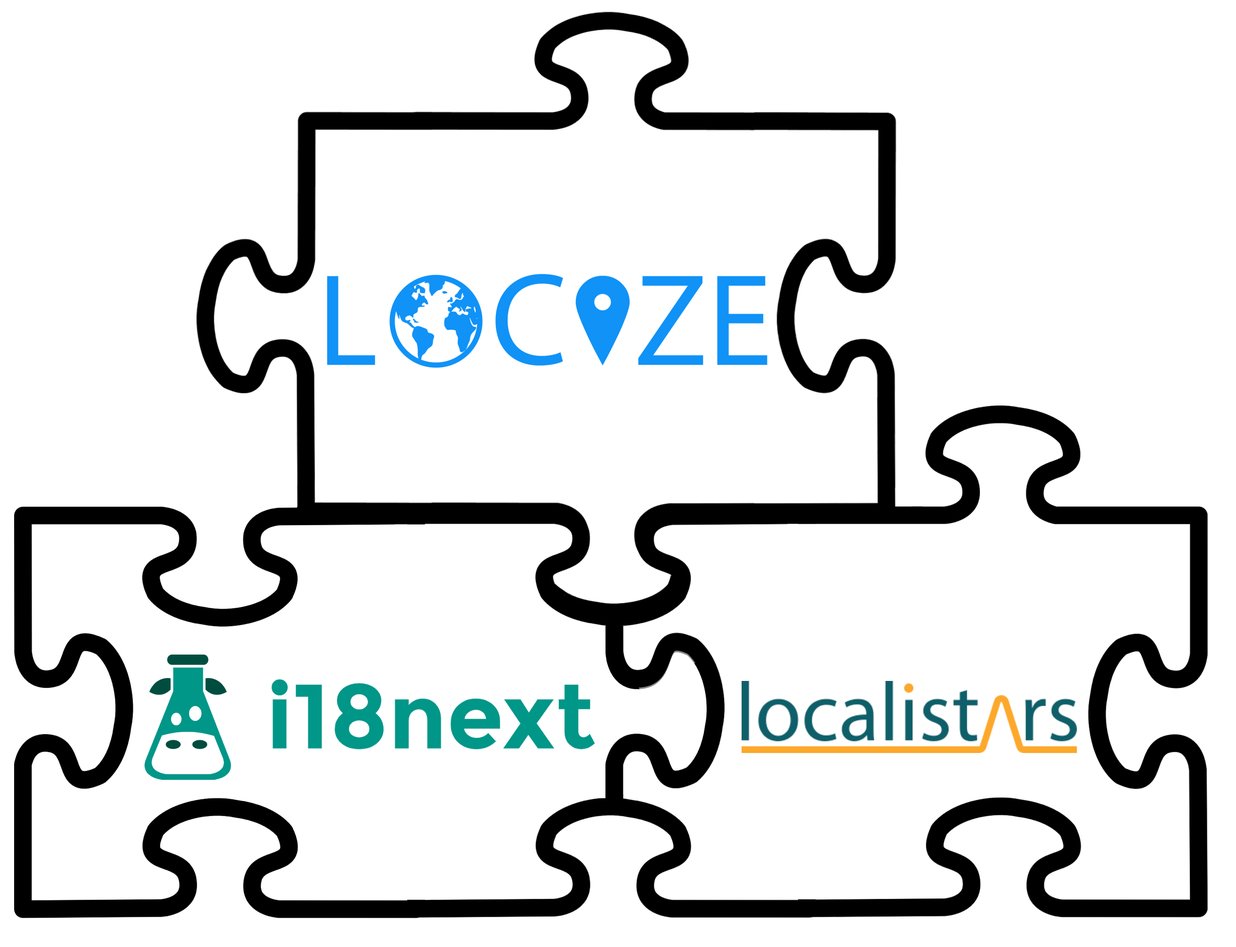
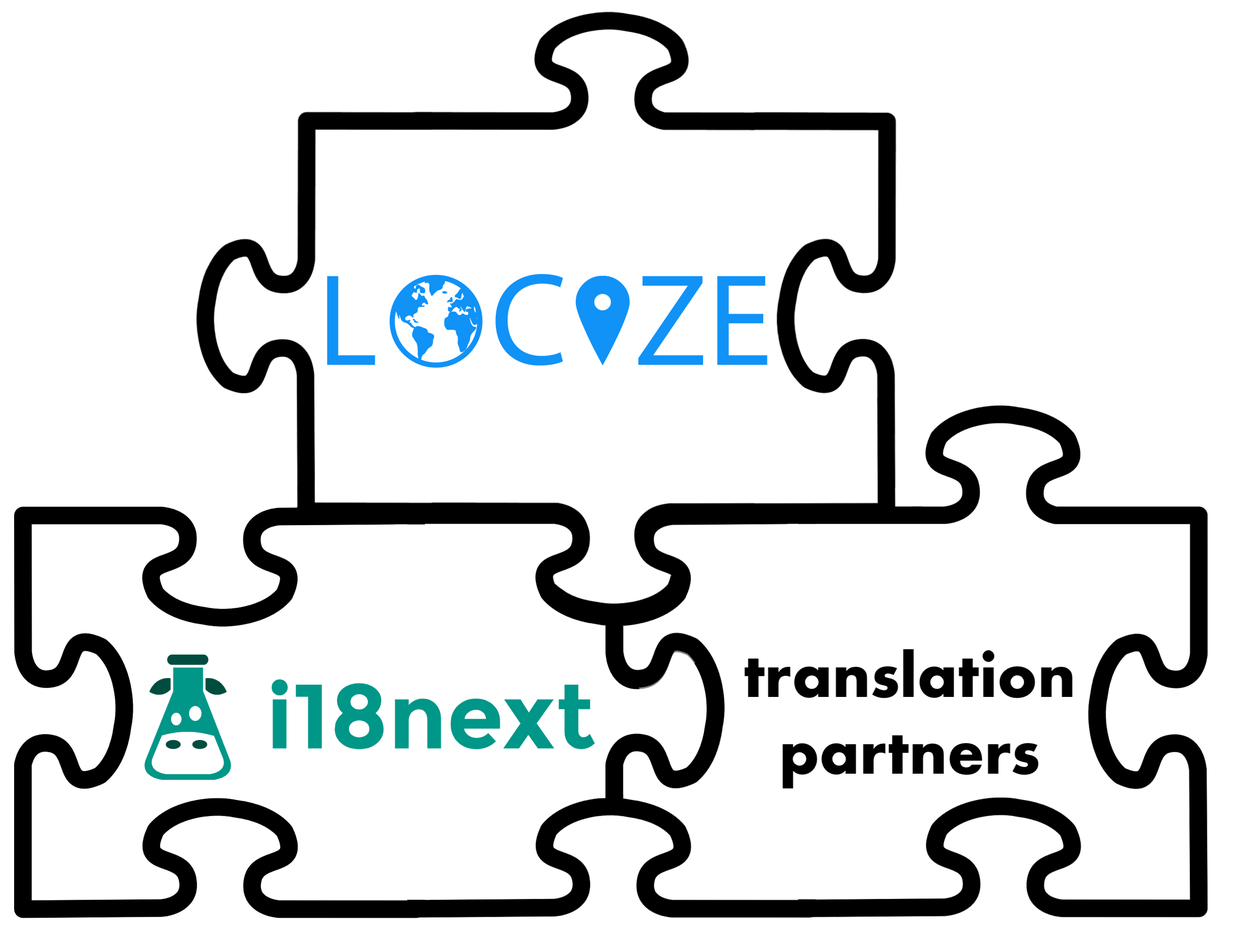
bye localistars

Changed region(s): [[0.5935, 0.6783, 0.8747, 0.8324]]

diff --git a/services.html b/services.html
@@ -11,7 +11,7 @@
     <meta name="twitter:description" content="Explore partners or extra services of locize. You may enhance your locize experience...">
     <meta name="author" content="inweso GmbH">
     <meta name="copyright" content="inweso GmbH">
-    <meta name="keywords" content="localization,internationalization,localize,translate,locize,l10n,i18n,javascript,nodejs,localization as a service,saas translation,saas localization,laas,continuous localization,DevOps,process,free,website localization,service,software,web app,web,mobile,desktop,game,translation management,online,automate,process of localization,localization process,translation service,localization service,translation software,landing page,javascript localize,localization tool,localizing a website,localization solution,cloud localization,cloud translation,serverless,cloud,cdn,react,react.js,reactjs,react-i18next,next,next.js,nextjs,next-i18next,svelte,svelte-i18n,svelte-i18next,angular,vue,vue-js,jquery,nodejs,i18next,json,api,react-native,localization api,translation api,localistars,app localization services,localization management platform,localization platform,professional translation and localization services,website translation management,app localization service,online translation management,i18next translation management,i18next translation,manage translations,manage translation files">
+    <meta name="keywords" content="localization,internationalization,localize,translate,locize,l10n,i18n,javascript,nodejs,localization as a service,saas translation,saas localization,laas,continuous localization,DevOps,process,free,website localization,service,software,web app,web,mobile,desktop,game,translation management,online,automate,process of localization,localization process,translation service,localization service,translation software,landing page,javascript localize,localization tool,localizing a website,localization solution,cloud localization,cloud translation,serverless,cloud,cdn,react,react.js,reactjs,react-i18next,next,next.js,nextjs,next-i18next,svelte,svelte-i18n,svelte-i18next,angular,vue,vue-js,jquery,nodejs,i18next,json,api,react-native,localization api,translation api,app localization services,localization management platform,localization platform,professional translation and localization services,website translation management,app localization service,online translation management,i18next translation management,i18next translation,manage translations,manage translation files">
     <meta property="og:type" content="website">
     <meta property="og:url" content="https://locize.com">
     <meta property="og:site_name" content="locize - continuous localization as a service">
@@ -191,19 +191,7 @@
       <section class="section-gray" style="padding: 0;">
         <div class="container">
           <div class="row">
-            <div class="col-md-4" style="position: relative;">
-              <div class="integration" style="height: 600px; background-color: #fff; border: solid 1px #ccc; position: relative; top: -100px; width: 100%; border-radius: 4px; box-shadow: 5px 10px 20px 5px #144199;">
-                <div class="integration-name text-center"><img src="/img/services/localistars.svg" style="height: 45px; margin: -5px 25px;" alt="localistars" loading="lazy"></div>
-                <div class="text-center text-muted">Direct contact, no middleman – just collaborating <a href="https://www.localistars.com" target="_blank">localistars</a>!</div>
-                <div class="text-center" style="font-size: 16px; font-weight: 600; margin-top: 30px;">Pricing on request</div>
-                <div class="integration-features">
-                  <p>localistars is the go-to marketplace for clients and translators to get translation jobs done.</p>
-                  <p>You're in <a href="https://youtu.be/T0giUsKS5KQ" target="_blank">direct contact</a> with the translator – it's your project, you hold the reins. In contrast to other services we don't set the price and forward the contract to the cheapest translator to maximize our own profit. You choose the translator for your projects yourself, it's your contractor.</p>
-                </div>
-                <div class="integration-start"><a class="btn btn-outline btn-xl" href="https://docs.locize.com/guides-tips-and-tricks/working-with-translators#localistars-service" target="_blank" style="background-color: #ccc">Learn more!</a></div>
-              </div>
-            </div>
-            <div class="col-md-4" style="position: relative;">
+            <div class="col-md-6" style="position: relative;">
               <div class="integration" style="height: 600px; background-color: #fff; border: solid 1px #ccc; position: relative; top: -100px; width: 100%; border-radius: 4px;">
                 <div class="integration-name text-center"><img src="/img/services/textmaster.png" alt="textmaster" loading="lazy"></div>
                 <div class="text-center text-muted">Your Professional SaaS Translation Service</div>
@@ -215,7 +203,7 @@
                 <div class="integration-start"><a class="btn btn-outline btn-xl" href="https://www.textmaster.com" target="_blank" style="background-color: #ccc">Learn more!</a></div>
               </div>
             </div>
-            <div class="col-md-4" style="position: relative;">
+            <div class="col-md-6" style="position: relative;">
               <div class="integration" style="height: 600px; background-color: #fff; border: solid 1px #ccc; position: relative; top: -100px; width: 100%; border-radius: 4px;">
                 <div class="integration-name text-center"><img src="/img/services/blend.png" style="height: 50px; margin-bottom: -17px;" alt="onehour translation" loading="lazy"></div>
                 <div class="text-center text-muted">End-to-end, multi-market localization solutions</div>

diff --git a/software-localization-service.html b/software-localization-service.html
@@ -11,7 +11,7 @@
     <meta name="twitter:description" content="Learn how the locize software-localization-service may assist you in professionally managing the translations of your software.">
     <meta name="author" content="inweso GmbH">
     <meta name="copyright" content="inweso GmbH">
-    <meta name="keywords" content="localization,internationalization,localize,translate,locize,l10n,i18n,javascript,nodejs,localization as a service,saas translation,saas localization,laas,continuous localization,DevOps,process,free,website localization,service,software,web app,web,mobile,desktop,game,translation management,online,automate,process of localization,localization process,translation service,localization service,translation software,landing page,javascript localize,localization tool,localizing a website,localization solution,cloud localization,cloud translation,serverless,cloud,cdn,react,react.js,reactjs,react-i18next,next,next.js,nextjs,next-i18next,svelte,svelte-i18n,svelte-i18next,angular,vue,vue-js,jquery,nodejs,i18next,json,api,react-native,localization api,translation api,localistars,app localization services,localization management platform,localization platform,professional translation and localization services,website translation management,app localization service,online translation management,i18next translation management,i18next translation,manage translations,manage translation files">
+    <meta name="keywords" content="localization,internationalization,localize,translate,locize,l10n,i18n,javascript,nodejs,localization as a service,saas translation,saas localization,laas,continuous localization,DevOps,process,free,website localization,service,software,web app,web,mobile,desktop,game,translation management,online,automate,process of localization,localization process,translation service,localization service,translation software,landing page,javascript localize,localization tool,localizing a website,localization solution,cloud localization,cloud translation,serverless,cloud,cdn,react,react.js,reactjs,react-i18next,next,next.js,nextjs,next-i18next,svelte,svelte-i18n,svelte-i18next,angular,vue,vue-js,jquery,nodejs,i18next,json,api,react-native,localization api,translation api,app localization services,localization management platform,localization platform,professional translation and localization services,website translation management,app localization service,online translation management,i18next translation management,i18next translation,manage translations,manage translation files">
     <meta property="og:type" content="website">
     <meta property="og:url" content="https://locize.com">
     <meta property="og:site_name" content="locize - continuous localization as a service">
@@ -275,11 +275,11 @@
               <div class="section-heading">
                 <h2>We provide the parts you need for your project</h2>
                 <p>To localize a software project, numerous procedures must be taken. First and foremost, you should select a framework for instrumentalizing your code. We propose to make use of a good i18n framework like <strong>i18next</strong>. If you've completed this stage, you should think about the translation process. </p>
-                <p>Who is responsible for translating the content? <strong>localistars</strong> can assist you in finding the best translator for your needs and allowing you to choose which one is suitable for your project on your own. Finally, you can effortlessly manage translations through our translation management user interface <strong>locize</strong>.</p>
+                <p>Who is responsible for translating the content? Our <strong>translation partners</strong> can help in outsourcing the translation work. Finally, you can effortlessly manage translations through our translation management user interface <strong>locize</strong>.</p>
                 <hr>
                 <div class="div" style="display:flex;flex-wrap:wrap;align-items: stretch;">
                   <div class="div" style="width:500px;margin: 2rem;"><img class="img-responsive" src="img/software-localization-service/ecosystem.png" alt="ecosystem" loading="lazy"></div>
-                  <div class="div" style="width:500px;padding: 3rem 0;"><a class="btn btn-primary btn-md" href="https://www.i18next.com" style="margin: 1rem 0;">Learn how to instrument the code</a><a class="btn btn-primary btn-md" href="https://www.localistars.com/" style="margin: 2rem 0;">Our online translation services</a><a class="btn btn-primary btn-md" href="/">Our translation management system</a></div>
+                  <div class="div" style="width:500px;padding: 3rem 0;"><a class="btn btn-primary btn-md" href="https://www.i18next.com" style="margin: 1rem 0;">Learn how to instrument the code</a><a class="btn btn-primary btn-md" href="/services.html#translationservices" style="margin: 2rem 0;">Our translation partners</a><a class="btn btn-primary btn-md" href="/">Our translation management system</a></div>
                 </div>
               </div>
             </div>

diff --git a/i18next.html b/i18next.html
@@ -11,7 +11,7 @@
     <meta name="twitter:description" content="locize - The Translation Management for i18next (and any other i18n setup) by the creators of i18next">
     <meta name="author" content="inweso GmbH">
     <meta name="copyright" content="inweso GmbH">
-    <meta name="keywords" content="localization,internationalization,localize,translate,locize,l10n,i18n,javascript,nodejs,localization as a service,saas translation,saas localization,laas,continuous localization,DevOps,process,free,website localization,service,software,web app,web,mobile,desktop,game,translation management,online,automate,process of localization,localization process,translation service,localization service,translation software,landing page,javascript localize,localization tool,localizing a website,localization solution,cloud localization,cloud translation,serverless,cloud,cdn,react,react.js,reactjs,react-i18next,next,next.js,nextjs,next-i18next,svelte,svelte-i18n,svelte-i18next,angular,vue,vue-js,jquery,nodejs,i18next,json,api,react-native,localization api,translation api,localistars,app localization services,localization management platform,localization platform,professional translation and localization services,website translation management,app localization service,online translation management,i18next translation management,i18next translation,manage translations,manage translation files">
+    <meta name="keywords" content="localization,internationalization,localize,translate,locize,l10n,i18n,javascript,nodejs,localization as a service,saas translation,saas localization,laas,continuous localization,DevOps,process,free,website localization,service,software,web app,web,mobile,desktop,game,translation management,online,automate,process of localization,localization process,translation service,localization service,translation software,landing page,javascript localize,localization tool,localizing a website,localization solution,cloud localization,cloud translation,serverless,cloud,cdn,react,react.js,reactjs,react-i18next,next,next.js,nextjs,next-i18next,svelte,svelte-i18n,svelte-i18next,angular,vue,vue-js,jquery,nodejs,i18next,json,api,react-native,localization api,translation api,app localization services,localization management platform,localization platform,professional translation and localization services,website translation management,app localization service,online translation management,i18next translation management,i18next translation,manage translations,manage translation files">
     <meta property="og:type" content="website">
     <meta property="og:url" content="https://locize.com">
     <meta property="og:site_name" content="locize - continuous localization as a service">
@@ -156,7 +156,7 @@
                 <li><a href="https://docs.locize.com/integration/instrumenting-your-code" target="_blank" style="color: white;">Easy to integrate</a></li>
                 <li><a href="/how-it-works.html#continouslocalization" target="_blank" style="color: white;">Continuous deployment? Continuous localization with a CDN!</a></li>
                 <li>Manage the translation files with ease</li>
-                <li><a href="https://docs.locize.com/guides-tips-and-tricks/working-with-translators/localistars" target="_blank" style="color: white;">Order professional translations</a></li>
+                <li><a href="https://docs.locize.com/guides-tips-and-tricks/working-with-translators" target="_blank" style="color: white;">Order professional translations</a></li>
                 <li>Analytics & Statistics</li>
                 <li><a href="https://docs.locize.com/whats-inside/cdn-content-delivery-network" target="_blank" style="color: white;">Profit from our content delivery network</a></li>
                 <li><a href="https://docs.locize.com/more/versioning" target="_blank" style="color: white;">Versioning of your translations</a></li>

diff --git a/open-source.html b/open-source.html
@@ -11,7 +11,7 @@
     <meta name="twitter:description" content="locize - The Translation Management for Open Source projects">
     <meta name="author" content="inweso GmbH">
     <meta name="copyright" content="inweso GmbH">
-    <meta name="keywords" content="localization,internationalization,localize,translate,locize,l10n,i18n,javascript,nodejs,localization as a service,saas translation,saas localization,laas,continuous localization,DevOps,process,free,website localization,service,software,web app,web,mobile,desktop,game,translation management,online,automate,process of localization,localization process,translation service,localization service,translation software,landing page,javascript localize,localization tool,localizing a website,localization solution,cloud localization,cloud translation,serverless,cloud,cdn,react,react.js,reactjs,react-i18next,next,next.js,nextjs,next-i18next,svelte,svelte-i18n,svelte-i18next,angular,vue,vue-js,jquery,nodejs,i18next,json,api,react-native,localization api,translation api,localistars,app localization services,localization management platform,localization platform,professional translation and localization services,website translation management,app localization service,online translation management,i18next translation management,i18next translation,manage translations,manage translation files">
+    <meta name="keywords" content="localization,internationalization,localize,translate,locize,l10n,i18n,javascript,nodejs,localization as a service,saas translation,saas localization,laas,continuous localization,DevOps,process,free,website localization,service,software,web app,web,mobile,desktop,game,translation management,online,automate,process of localization,localization process,translation service,localization service,translation software,landing page,javascript localize,localization tool,localizing a website,localization solution,cloud localization,cloud translation,serverless,cloud,cdn,react,react.js,reactjs,react-i18next,next,next.js,nextjs,next-i18next,svelte,svelte-i18n,svelte-i18next,angular,vue,vue-js,jquery,nodejs,i18next,json,api,react-native,localization api,translation api,app localization services,localization management platform,localization platform,professional translation and localization services,website translation management,app localization service,online translation management,i18next translation management,i18next translation,manage translations,manage translation files">
     <meta property="og:type" content="website">
     <meta property="og:url" content="https://locize.com">
     <meta property="og:site_name" content="locize - continuous localization as a service">
@@ -134,7 +134,7 @@
                 <li><a href="https://docs.locize.com/integration/instrumenting-your-code" target="_blank" style="color: white;">Easy to integrate</a></li>
                 <li><a href="/how-it-works.html#continouslocalization" target="_blank" style="color: white;">Continuous deployment? Continuous localization with a CDN!</a></li>
                 <li>Manage the translation files with ease</li>
-                <li><a href="https://docs.locize.com/guides-tips-and-tricks/working-with-translators/localistars" target="_blank" style="color: white;">Order professional translations</a></li>
+                <li><a href="https://docs.locize.com/guides-tips-and-tricks/working-with-translators" target="_blank" style="color: white;">Order professional translations</a></li>
                 <li>Analytics & Statistics</li>
                 <li><a href="https://docs.locize.com/whats-inside/cdn-content-delivery-network" target="_blank" style="color: white;">Profit from our content delivery network</a></li>
                 <li><a href="https://docs.locize.com/more/versioning" target="_blank" style="color: white;">Versioning of your translations</a></li>

diff --git a/index.html b/index.html
@@ -7,7 +7,7 @@
     <meta name="description" i18next-key="description" content="As a localization and translation management platform, locize enables you  to separate your development and translation process.">
     <meta name="author" content="inweso GmbH">
     <meta name="copyright" content="inweso GmbH">
-    <meta name="keywords" content="localization,internationalization,localize,translate,locize,l10n,i18n,javascript,nodejs,localization as a service,saas translation,saas localization,laas,continuous localization,DevOps,process,free,website localization,service,software,web app,web,mobile,desktop,game,translation management,online,automate,process of localization,localization process,translation service,localization service,translation software,landing page,javascript localize,localization tool,localizing a website,localization solution,cloud localization,cloud translation,serverless,cloud,cdn,react,react.js,reactjs,next,next.js,nextjs,angular,vue,vue-js,jquery,nodejs,i18next,json,api,react-native,localization api,translation api,localistars,app localization services,localization management platform,localization platform,professional translation and localization services,website translation management,app localization service,online translation management,i18next translation management,i18next translation,manage translations,manage translation files">
+    <meta name="keywords" content="localization,internationalization,localize,translate,locize,l10n,i18n,javascript,nodejs,localization as a service,saas translation,saas localization,laas,continuous localization,DevOps,process,free,website localization,service,software,web app,web,mobile,desktop,game,translation management,online,automate,process of localization,localization process,translation service,localization service,translation software,landing page,javascript localize,localization tool,localizing a website,localization solution,cloud localization,cloud translation,serverless,cloud,cdn,react,react.js,reactjs,next,next.js,nextjs,angular,vue,vue-js,jquery,nodejs,i18next,json,api,react-native,localization api,translation api,app localization services,localization management platform,localization platform,professional translation and localization services,website translation management,app localization service,online translation management,i18next translation management,i18next translation,manage translations,manage translation files">
     <link rel="alternate" href="https://locize.com/de.html" hreflang="de">
     <link rel="alternate" href="https://locize.com/it.html" hreflang="it">
     <link rel="alternate" href="https://locize.com/?lng=en" hreflang="en">
@@ -334,7 +334,6 @@
                     <p>You can translate your content using our powerful editor.</p>
                     <p>Invite your inhouse translators giving them the rights for the languages needed.</p>
                     <p>Got a language not covered? Need extra help or prefer to completely outsource the job? Choose one of our <a href="/services.html#translationservices" style="color: white;">translation service partners</a>.</p>
-                    <p>We suggest to use <a href="https://www.localistars.com" style="color: white;">localistars</a>. With localistars you're in direct contact with the translator, no middleman – it's your project, you hold the reins. You choose the translator for your projects yourself, it's your contractor.</p>
                   </div>
                 </div>
               </div>

diff --git a/for-your-team.html b/for-your-team.html
@@ -11,7 +11,7 @@
     <meta name="twitter:description" content="Project managers, tech leads, translators, and developers should read this. Use locize to your advantage in every team job.">
     <meta name="author" content="inweso GmbH">
     <meta name="copyright" content="inweso GmbH">
-    <meta name="keywords" content="localization,internationalization,localize,translate,locize,l10n,i18n,javascript,nodejs,localization as a service,saas translation,saas localization,laas,continuous localization,DevOps,process,free,website localization,service,software,web app,web,mobile,desktop,game,translation management,online,automate,process of localization,localization process,translation service,localization service,translation software,landing page,javascript localize,localization tool,localizing a website,localization solution,cloud localization,cloud translation,serverless,cloud,cdn,react,react.js,reactjs,react-i18next,next,next.js,nextjs,next-i18next,svelte,svelte-i18n,svelte-i18next,angular,vue,vue-js,jquery,nodejs,i18next,json,api,react-native,localization api,translation api,localistars,app localization services,localization management platform,localization platform,professional translation and localization services,website translation management,app localization service,online translation management,i18next translation management,i18next translation,manage translations,manage translation files">
+    <meta name="keywords" content="localization,internationalization,localize,translate,locize,l10n,i18n,javascript,nodejs,localization as a service,saas translation,saas localization,laas,continuous localization,DevOps,process,free,website localization,service,software,web app,web,mobile,desktop,game,translation management,online,automate,process of localization,localization process,translation service,localization service,translation software,landing page,javascript localize,localization tool,localizing a website,localization solution,cloud localization,cloud translation,serverless,cloud,cdn,react,react.js,reactjs,react-i18next,next,next.js,nextjs,next-i18next,svelte,svelte-i18n,svelte-i18next,angular,vue,vue-js,jquery,nodejs,i18next,json,api,react-native,localization api,translation api,app localization services,localization management platform,localization platform,professional translation and localization services,website translation management,app localization service,online translation management,i18next translation management,i18next translation,manage translations,manage translation files">
     <meta property="og:type" content="website">
     <meta property="og:url" content="https://locize.com">
     <meta property="og:site_name" content="locize - continuous localization as a service">
@@ -163,7 +163,7 @@
                     <div class="feature-item">
                       <h3>Order translations</h3>
                       <p>While you can let your translation done by freelancers or inhouse employees using locize itself you also got the options to directly order translations from inside locize.</p>
-                      <p>Currently you can order directly from localistars, TextMaster or BLEND.</p>
+                      <p>Currently you can order directly from TextMaster or BLEND.</p>
                     </div>
                   </div>
                   <div class="col-md-6">

diff --git a/404.html b/404.html
@@ -11,7 +11,7 @@
     <meta name="twitter:description" content="locize - Bridging the gap between translation and development. With locize we remove the pain in the translation process. No more delays in shipping your software because of missing translations. Translator could keep up with changes from day one. The continuous localization process keeps up with your demanding business. Stop waiting - start localizing.">
     <meta name="author" content="inweso GmbH">
     <meta name="copyright" content="inweso GmbH">
-    <meta name="keywords" content="localization,internationalization,localize,translate,locize,l10n,i18n,javascript,nodejs,localization as a service,saas translation,saas localization,laas,continuous localization,DevOps,process,free,website localization,service,software,web app,web,mobile,desktop,game,translation management,online,automate,process of localization,localization process,translation service,localization service,translation software,landing page,javascript localize,localization tool,localizing a website,localization solution,cloud localization,cloud translation,serverless,cloud,cdn,react,react.js,reactjs,react-i18next,next,next.js,nextjs,next-i18next,svelte,svelte-i18n,svelte-i18next,angular,vue,vue-js,jquery,nodejs,i18next,json,api,react-native,localization api,translation api,localistars,app localization services,localization management platform,localization platform,professional translation and localization services,website translation management,app localization service,online translation management,i18next translation management,i18next translation,manage translations,manage translation files">
+    <meta name="keywords" content="localization,internationalization,localize,translate,locize,l10n,i18n,javascript,nodejs,localization as a service,saas translation,saas localization,laas,continuous localization,DevOps,process,free,website localization,service,software,web app,web,mobile,desktop,game,translation management,online,automate,process of localization,localization process,translation service,localization service,translation software,landing page,javascript localize,localization tool,localizing a website,localization solution,cloud localization,cloud translation,serverless,cloud,cdn,react,react.js,reactjs,react-i18next,next,next.js,nextjs,next-i18next,svelte,svelte-i18n,svelte-i18next,angular,vue,vue-js,jquery,nodejs,i18next,json,api,react-native,localization api,translation api,app localization services,localization management platform,localization platform,professional translation and localization services,website translation management,app localization service,online translation management,i18next translation management,i18next translation,manage translations,manage translation files">
     <meta property="og:type" content="website">
     <meta property="og:url" content="https://locize.com">
     <meta property="og:site_name" content="locize - continuous localization as a service">

diff --git a/calculator.html b/calculator.html
@@ -11,7 +11,7 @@
     <meta name="twitter:description" content="locize - Bridging the gap between translation and development. With locize we remove the pain in the translation process. No more delays in shipping your software because of missing translations. Translator could keep up with changes from day one. The continuous localization process keeps up with your demanding business. Stop waiting - start localizing.">
     <meta name="author" content="inweso GmbH">
     <meta name="copyright" content="inweso GmbH">
-    <meta name="keywords" content="localization,internationalization,localize,translate,locize,l10n,i18n,javascript,nodejs,localization as a service,saas translation,saas localization,laas,continuous localization,DevOps,process,free,website localization,service,software,web app,web,mobile,desktop,game,translation management,online,automate,process of localization,localization process,translation service,localization service,translation software,landing page,javascript localize,localization tool,localizing a website,localization solution,cloud localization,cloud translation,serverless,cloud,cdn,react,react.js,reactjs,react-i18next,next,next.js,nextjs,next-i18next,svelte,svelte-i18n,svelte-i18next,angular,vue,vue-js,jquery,nodejs,i18next,json,api,react-native,localization api,translation api,localistars,app localization services,localization management platform,localization platform,professional translation and localization services,website translation management,app localization service,online translation management,i18next translation management,i18next translation,manage translations,manage translation files">
+    <meta name="keywords" content="localization,internationalization,localize,translate,locize,l10n,i18n,javascript,nodejs,localization as a service,saas translation,saas localization,laas,continuous localization,DevOps,process,free,website localization,service,software,web app,web,mobile,desktop,game,translation management,online,automate,process of localization,localization process,translation service,localization service,translation software,landing page,javascript localize,localization tool,localizing a website,localization solution,cloud localization,cloud translation,serverless,cloud,cdn,react,react.js,reactjs,react-i18next,next,next.js,nextjs,next-i18next,svelte,svelte-i18n,svelte-i18next,angular,vue,vue-js,jquery,nodejs,i18next,json,api,react-native,localization api,translation api,app localization services,localization management platform,localization platform,professional translation and localization services,website translation management,app localization service,online translation management,i18next translation management,i18next translation,manage translations,manage translation files">
     <meta property="og:type" content="website">
     <meta property="og:url" content="https://locize.com">
     <meta property="og:site_name" content="locize - continuous localization as a service">

diff --git a/ccpa.html b/ccpa.html
@@ -11,7 +11,7 @@
     <meta name="twitter:description" content="locize - Bridging the gap between translation and development. With locize we remove the pain in the translation process. No more delays in shipping your software because of missing translations. Translator could keep up with changes from day one. The continuous localization process keeps up with your demanding business. Stop waiting - start localizing.">
     <meta name="author" content="inweso GmbH">
     <meta name="copyright" content="inweso GmbH">
-    <meta name="keywords" content="localization,internationalization,localize,translate,locize,l10n,i18n,javascript,nodejs,localization as a service,saas translation,saas localization,laas,continuous localization,DevOps,process,free,website localization,service,software,web app,web,mobile,desktop,game,translation management,online,automate,process of localization,localization process,translation service,localization service,translation software,landing page,javascript localize,localization tool,localizing a website,localization solution,cloud localization,cloud translation,serverless,cloud,cdn,react,react.js,reactjs,react-i18next,next,next.js,nextjs,next-i18next,svelte,svelte-i18n,svelte-i18next,angular,vue,vue-js,jquery,nodejs,i18next,json,api,react-native,localization api,translation api,localistars,app localization services,localization management platform,localization platform,professional translation and localization services,website translation management,app localization service,online translation management,i18next translation management,i18next translation,manage translations,manage translation files">
+    <meta name="keywords" content="localization,internationalization,localize,translate,locize,l10n,i18n,javascript,nodejs,localization as a service,saas translation,saas localization,laas,continuous localization,DevOps,process,free,website localization,service,software,web app,web,mobile,desktop,game,translation management,online,automate,process of localization,localization process,translation service,localization service,translation software,landing page,javascript localize,localization tool,localizing a website,localization solution,cloud localization,cloud translation,serverless,cloud,cdn,react,react.js,reactjs,react-i18next,next,next.js,nextjs,next-i18next,svelte,svelte-i18n,svelte-i18next,angular,vue,vue-js,jquery,nodejs,i18next,json,api,react-native,localization api,translation api,app localization services,localization management platform,localization platform,professional translation and localization services,website translation management,app localization service,online translation management,i18next translation management,i18next translation,manage translations,manage translation files">
     <meta property="og:type" content="website">
     <meta property="og:url" content="https://locize.com">
     <meta property="og:site_name" content="locize - continuous localization as a service">

diff --git a/dpa.html b/dpa.html
@@ -11,7 +11,7 @@
     <meta name="twitter:description" content="locize - Bridging the gap between translation and development. With locize we remove the pain in the translation process. No more delays in shipping your software because of missing translations. Translator could keep up with changes from day one. The continuous localization process keeps up with your demanding business. Stop waiting - start localizing.">
     <meta name="author" content="inweso GmbH">
     <meta name="copyright" content="inweso GmbH">
-    <meta name="keywords" content="localization,internationalization,localize,translate,locize,l10n,i18n,javascript,nodejs,localization as a service,saas translation,saas localization,laas,continuous localization,DevOps,process,free,website localization,service,software,web app,web,mobile,desktop,game,translation management,online,automate,process of localization,localization process,translation service,localization service,translation software,landing page,javascript localize,localization tool,localizing a website,localization solution,cloud localization,cloud translation,serverless,cloud,cdn,react,react.js,reactjs,react-i18next,next,next.js,nextjs,next-i18next,svelte,svelte-i18n,svelte-i18next,angular,vue,vue-js,jquery,nodejs,i18next,json,api,react-native,localization api,translation api,localistars,app localization services,localization management platform,localization platform,professional translation and localization services,website translation management,app localization service,online translation management,i18next translation management,i18next translation,manage translations,manage translation files">
+    <meta name="keywords" content="localization,internationalization,localize,translate,locize,l10n,i18n,javascript,nodejs,localization as a service,saas translation,saas localization,laas,continuous localization,DevOps,process,free,website localization,service,software,web app,web,mobile,desktop,game,translation management,online,automate,process of localization,localization process,translation service,localization service,translation software,landing page,javascript localize,localization tool,localizing a website,localization solution,cloud localization,cloud translation,serverless,cloud,cdn,react,react.js,reactjs,react-i18next,next,next.js,nextjs,next-i18next,svelte,svelte-i18n,svelte-i18next,angular,vue,vue-js,jquery,nodejs,i18next,json,api,react-native,localization api,translation api,app localization services,localization management platform,localization platform,professional translation and localization services,website translation management,app localization service,online translation management,i18next translation management,i18next translation,manage translations,manage translation files">
     <meta property="og:type" content="website">
     <meta property="og:url" content="https://locize.com">
     <meta property="og:site_name" content="locize - continuous localization as a service">

diff --git a/javascript-localization.html b/javascript-localization.html
@@ -11,7 +11,7 @@
     <meta name="twitter:description" content="JavaScript Localization: In this article we provide a step-by-step guide to internationalize (i18n) your javascript applications using different approaches.">
     <meta name="author" content="inweso GmbH">
     <meta name="copyright" content="inweso GmbH">
-    <meta name="keywords" content="localization,internationalization,localize,translate,locize,l10n,i18n,javascript,nodejs,localization as a service,saas translation,saas localization,laas,continuous localization,DevOps,process,free,website localization,service,software,web app,web,mobile,desktop,game,translation management,online,automate,process of localization,localization process,translation service,localization service,translation software,landing page,javascript localize,localization tool,localizing a website,localization solution,cloud localization,cloud translation,serverless,cloud,cdn,react,react.js,reactjs,react-i18next,next,next.js,nextjs,next-i18next,svelte,svelte-i18n,svelte-i18next,angular,vue,vue-js,jquery,nodejs,i18next,json,api,react-native,localization api,translation api,localistars,app localization services,localization management platform,localization platform,professional translation and localization services,website translation management,app localization service,online translation management,i18next translation management,i18next translation,manage translations,manage translation files">
+    <meta name="keywords" content="localization,internationalization,localize,translate,locize,l10n,i18n,javascript,nodejs,localization as a service,saas translation,saas localization,laas,continuous localization,DevOps,process,free,website localization,service,software,web app,web,mobile,desktop,game,translation management,online,automate,process of localization,localization process,translation service,localization service,translation software,landing page,javascript localize,localization tool,localizing a website,localization solution,cloud localization,cloud translation,serverless,cloud,cdn,react,react.js,reactjs,react-i18next,next,next.js,nextjs,next-i18next,svelte,svelte-i18n,svelte-i18next,angular,vue,vue-js,jquery,nodejs,i18next,json,api,react-native,localization api,translation api,app localization services,localization management platform,localization platform,professional translation and localization services,website translation management,app localization service,online translation management,i18next translation management,i18next translation,manage translations,manage translation files">
     <meta property="og:type" content="website">
     <meta property="og:url" content="https://locize.com">
     <meta property="og:site_name" content="locize - continuous localization as a service">

diff --git a/how-it-works.html b/how-it-works.html
@@ -11,7 +11,7 @@
     <meta name="twitter:description" content="How locize works: For traditionalists, automators or innovators - a complete set of features to enable a continuous localization process.">
     <meta name="author" content="inweso GmbH">
     <meta name="copyright" content="inweso GmbH">
-    <meta name="keywords" content="localization,internationalization,localize,translate,locize,l10n,i18n,javascript,nodejs,localization as a service,saas translation,saas localization,laas,continuous localization,DevOps,process,free,website localization,service,software,web app,web,mobile,desktop,game,translation management,online,automate,process of localization,localization process,translation service,localization service,translation software,landing page,javascript localize,localization tool,localizing a website,localization solution,cloud localization,cloud translation,serverless,cloud,cdn,react,react.js,reactjs,react-i18next,next,next.js,nextjs,next-i18next,svelte,svelte-i18n,svelte-i18next,angular,vue,vue-js,jquery,nodejs,i18next,json,api,react-native,localization api,translation api,localistars,app localization services,localization management platform,localization platform,professional translation and localization services,website translation management,app localization service,online translation management,i18next translation management,i18next translation,manage translations,manage translation files">
+    <meta name="keywords" content="localization,internationalization,localize,translate,locize,l10n,i18n,javascript,nodejs,localization as a service,saas translation,saas localization,laas,continuous localization,DevOps,process,free,website localization,service,software,web app,web,mobile,desktop,game,translation management,online,automate,process of localization,localization process,translation service,localization service,translation software,landing page,javascript localize,localization tool,localizing a website,localization solution,cloud localization,cloud translation,serverless,cloud,cdn,react,react.js,reactjs,react-i18next,next,next.js,nextjs,next-i18next,svelte,svelte-i18n,svelte-i18next,angular,vue,vue-js,jquery,nodejs,i18next,json,api,react-native,localization api,translation api,app localization services,localization management platform,localization platform,professional translation and localization services,website translation management,app localization service,online translation management,i18next translation management,i18next translation,manage translations,manage translation files">
     <meta property="og:type" content="website">
     <meta property="og:url" content="https://locize.com">
     <meta property="og:site_name" content="locize - continuous localization as a service">
